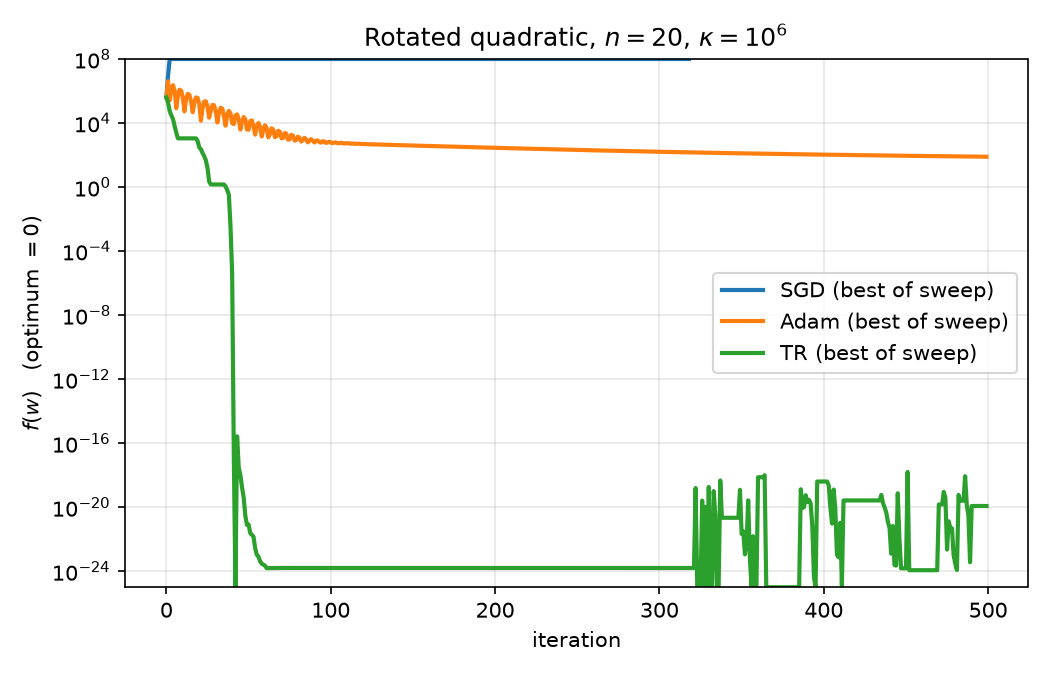
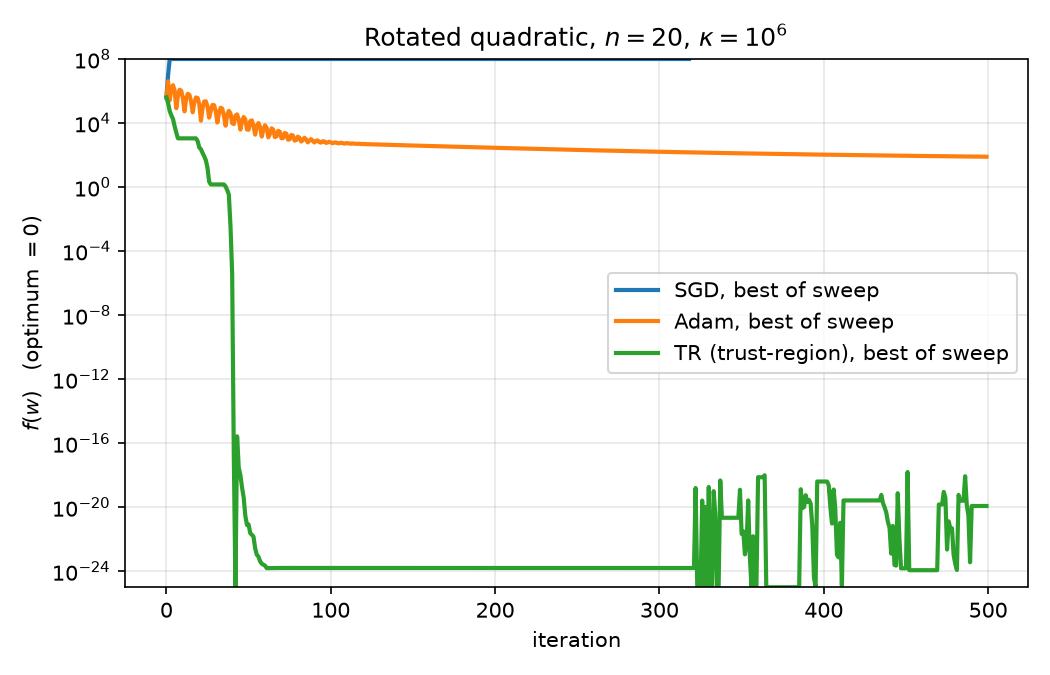
Update labels

Changed region(s): [[0.579, 0.4044, 0.9752, 0.56]]

diff --git a/experiments/examples/quickstart.py b/experiments/examples/quickstart.py
@@ -145,7 +145,8 @@ def main() -> None:
         f"f(w) = 0.5 (w - w*)^T A (w - w*),  n = {n},  condition number = {kappa:.0e}"
     )
     print(f"optimal value f(w*) = 0;  {args.iterations} iterations;  seed {args.seed}")
-    print("baselines are swept over learning rates and scored at their best\n")
+    print("baselines are swept over learning rates and scored at their best")
+    print("SGD and Adam are torch.optim; TR is this library's trust-region method\n")
 
     print("  1. Does the ill-conditioning align with the coordinate axes?")
     print(f"     {'Hessian':<24} {'SGD':>10} {'Adam':>10} {'TR':>12}")
@@ -177,10 +178,13 @@ def main() -> None:
     # shared log axis, so the view is clipped to a readable window. Curves that
     # leave it simply run off the top or bottom edge.
     low, high = 1e-25, 1e8
+    legend_names = {"TR": "TR (trust-region)"}
     plt.figure(figsize=(7, 4.5))
     for label, history in curves.items():
         series = [min(max(v, low), high) if v == v else float("nan") for v in history]
-        plt.semilogy(series, lw=2, label=f"{label} (best of sweep)")
+        plt.semilogy(
+            series, lw=2, label=f"{legend_names.get(label, label)}, best of sweep"
+        )
     plt.ylim(low, high)
     plt.xlabel("iteration")
     plt.ylabel("$f(w)$   (optimum $= 0$)")

diff --git a/README.md b/README.md
@@ -50,6 +50,10 @@ number 10⁶, where `f(w*) = 0` exactly, so results are measured against the tru
 rather than against a loss curve. Both baselines get a learning-rate sweep and
 are scored at their best, so nothing hinges on a badly chosen step size.
 
+`SGD` and `Adam` are the `torch.optim` implementations; **`TR` is this
+library's trust-region method**, with a limited-memory SR1 model of the
+curvature.
+
 ```
   1. Does the ill-conditioning align with the coordinate axes?
      Hessian                         SGD       Adam           TR
